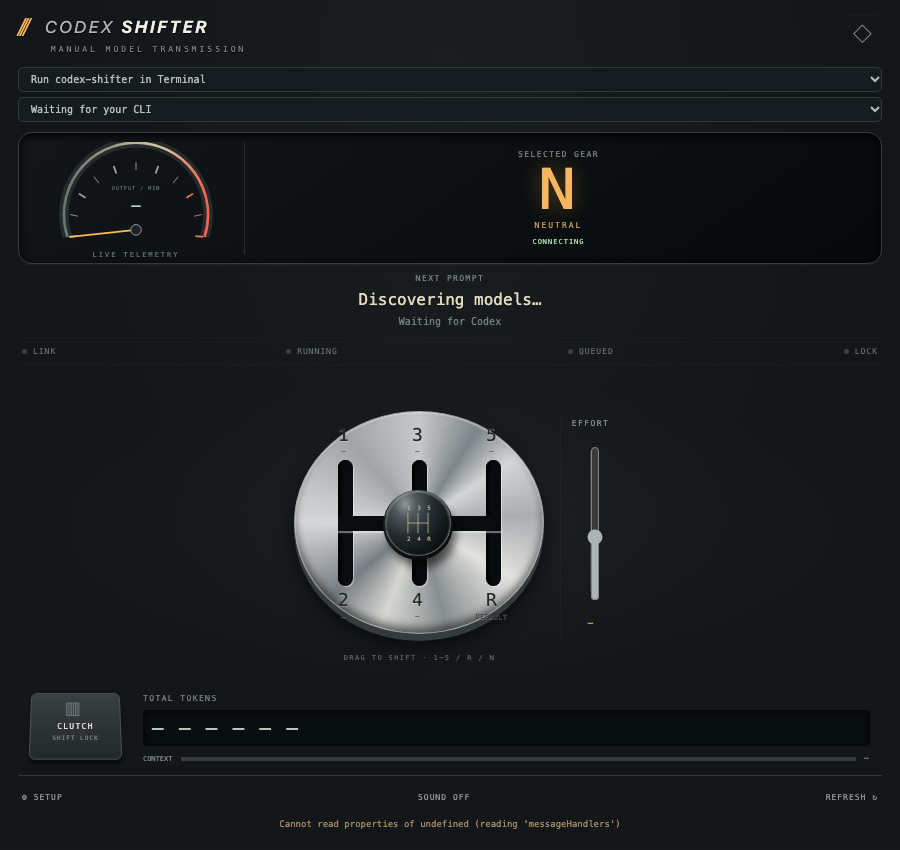
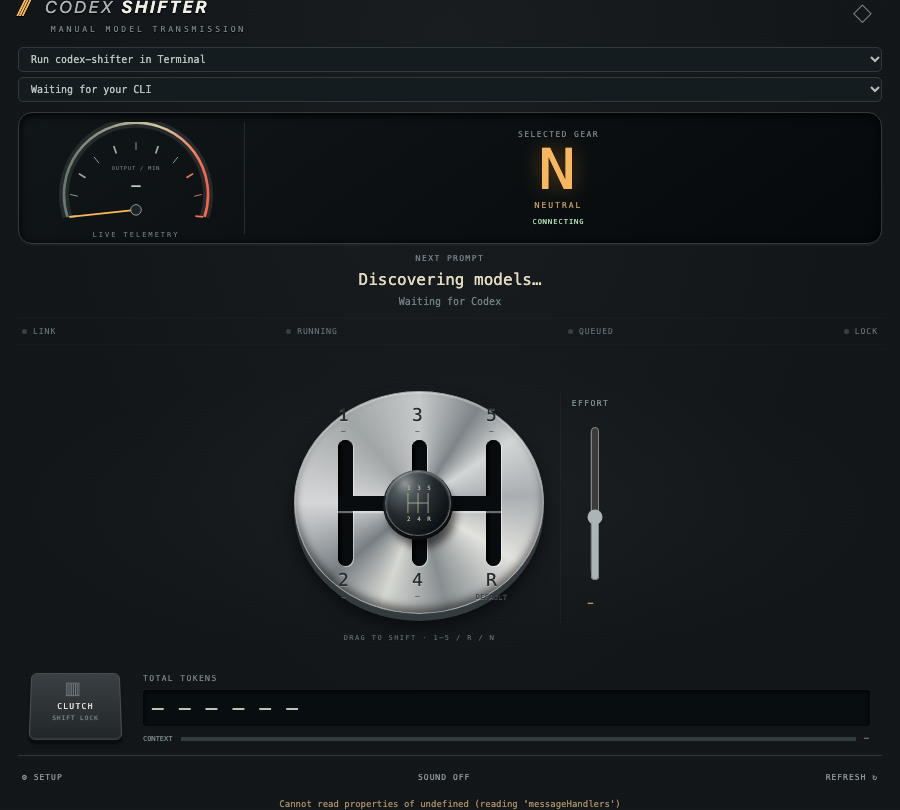
Show dashboard controls and add a quick start

diff --git a/README.md b/README.md
@@ -2,6 +2,18 @@
 
 A floating Mac gear shifter for the real Codex terminal CLI. Your prompts, responses, tool output, and approvals stay in your terminal.
 
+![Codex Shifter dashboard waiting for a terminal session](docs/images/dashboard.png)
+
+## Quick start
+
+On an Apple Silicon Mac with Xcode Command Line Tools and the Codex CLI installed, run these commands from the cloned repository.
+
+```sh
+./build.sh
+./install.sh
+~/.local/bin/codex-shifter
+```
+
 ## Launch
 
 ```sh
@@ -13,6 +25,10 @@ codex-shifter resume SESSION_ID
 ```
 
 The command is installed at `~/.local/bin/codex-shifter`. If your terminal does not include that directory in PATH, use that full path. The ordinary `codex` command is unchanged.
+
+## Dashboard controls
+
+![Gear selector and effort lever](docs/images/gear-selector.png)
 
 - Drag the knob or click gears 1–5 to change the attached CLI's model.
 - Move the effort lever to change reasoning effort.
